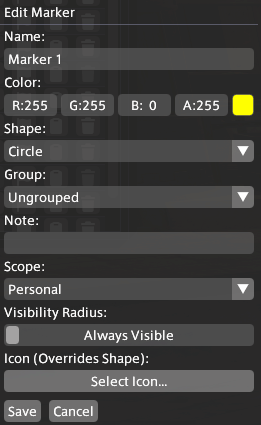
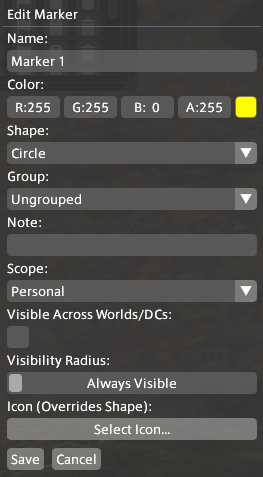
chore: bump version and readme

diff --git a/README.md b/README.md
@@ -16,7 +16,7 @@ WukLamark is a plugin that allows players to create and manage custom map marker
 - Add personal notes to map markers
 - Set different scopes for map markers (personal, shared)
    > Shared map markers are visible to anyone who logs into the game from your computer.
-- Per-character map markers
+- Per-world, per-data center or global map markers
 - Group map markers for different purposes
 - Import map markers from other players/Export map markers to other players
 - Displays in-game locations and world locations by name
@@ -39,6 +39,10 @@ To edit a map marker, open the WukLamark window and click the `Edit Marker` butt
 
 > `Color` and `Shape` are only applicable to No Icon map markers. Scope is only applicable to map markers that are not in a group. Map markers in a group will inherit the scope of the group. 
 
+### Making a Map Marker Global
+
+To make a map marker global, open the WukLamark window and click the `Edit Marker` button. Then, click the `Visible Across Worlds/DCs` checkbox.
+
 ### Deleting a Map Marker
 
 To delete a map marker, open the WukLamark window and click the `Delete Marker` button.
@@ -54,6 +58,8 @@ To share a map marker with others, open the WukLamark window and click the `Copy
 To import a map marker from someone else, open the WukLamark window and click the `Import Map Markers from Clipboard` button.
 
 ![Import Map Marker](./.github/assets/WindowImportWaymark.png)
+
+## Groups
 
 ### Creating a Group
 
